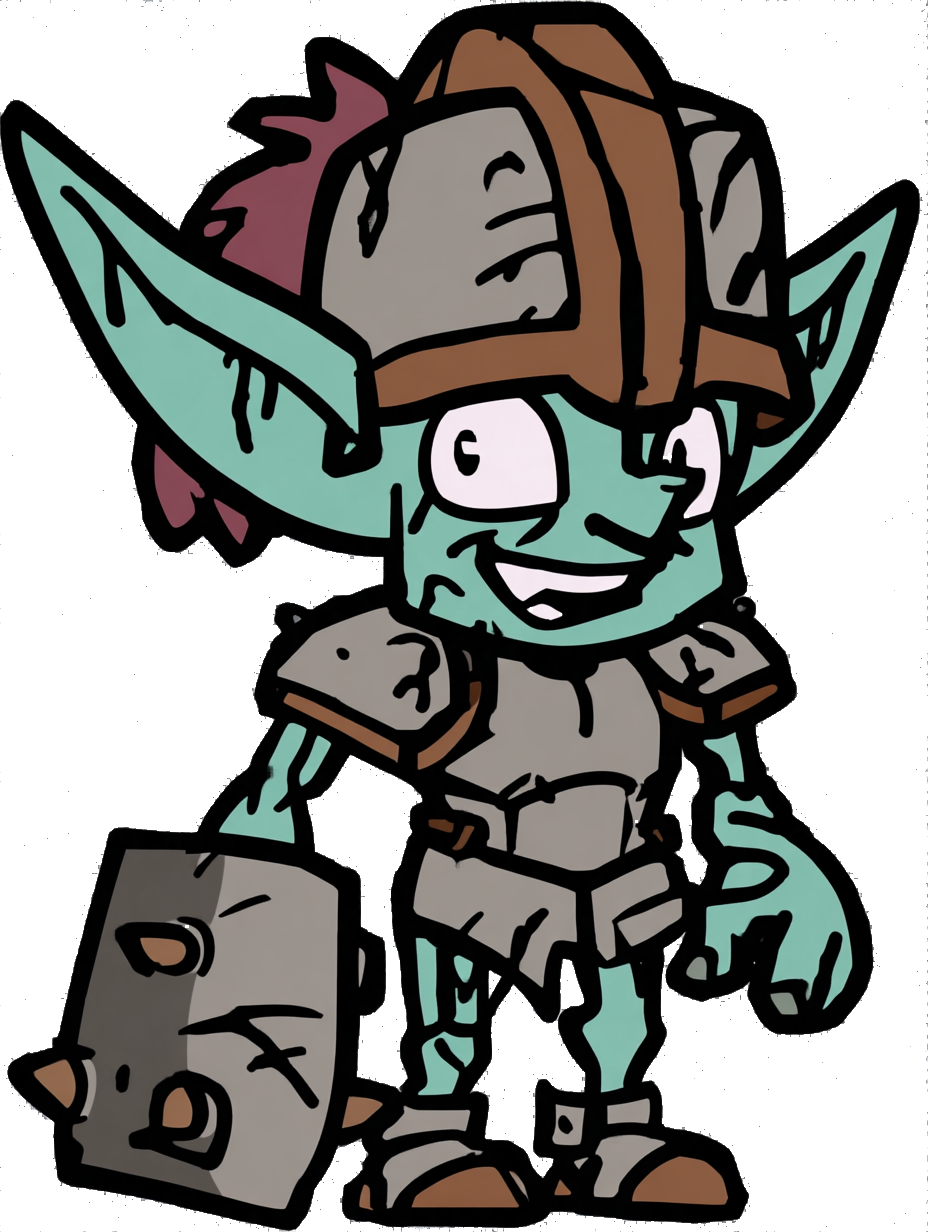
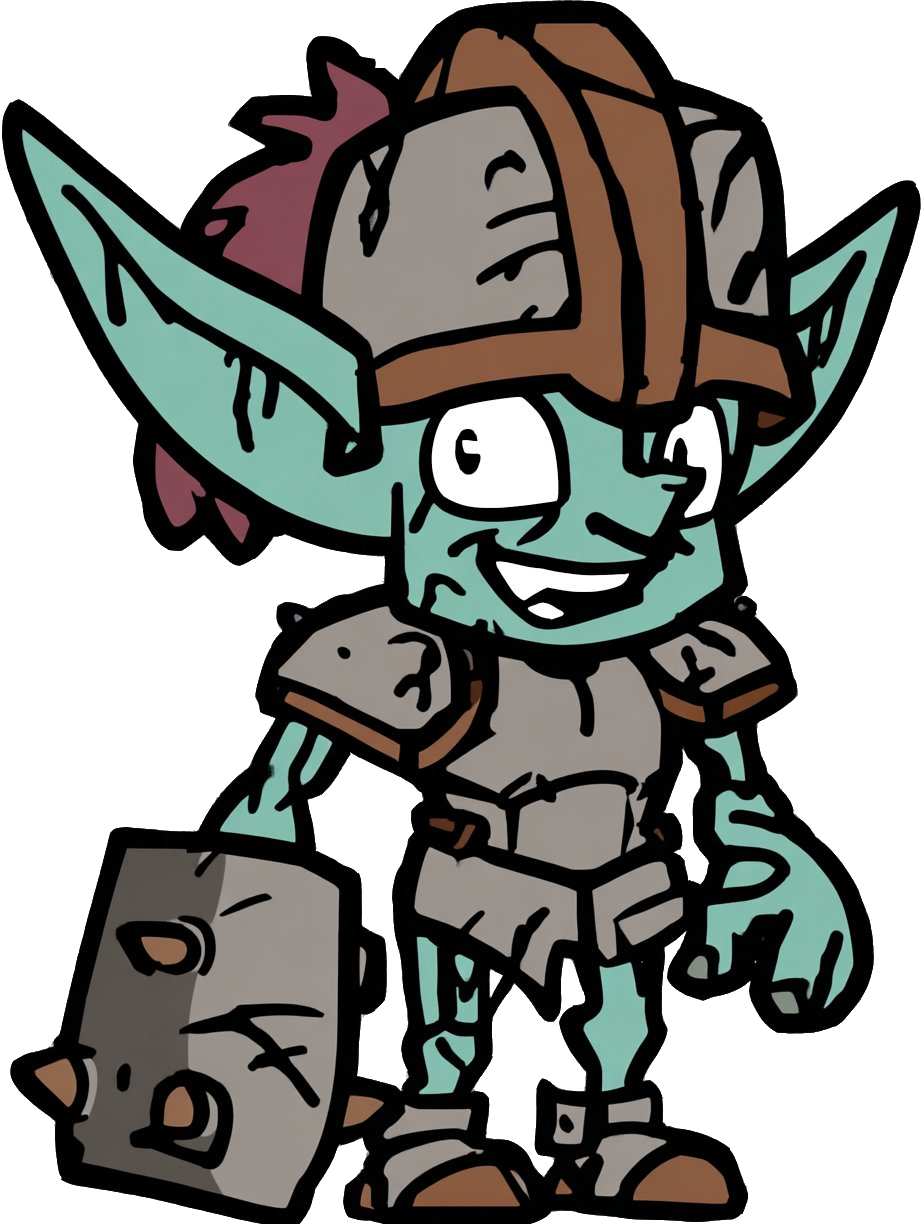
fix(characters): 哲人与军人立绘重抠，眼睛回来了、棋盘格清干净
两张立绘在原 zip 里被压平到渲染出来的透明棋盘上。第一版抠图把"轮廓内
高亮中性色的空洞"一律当背景去掉——眼白和牙齿正是这种空洞，于是两张图
的眼睛都被扣掉；哲人右耳旁还留着没去掉的深色棋盘块。

用户 2026-10-20 重新导出了这两张（923×1224，纯白底、眼睛完整）。新增
tools/characters/repair_white_matte_portraits.py 按新原则重抠：

- 只去掉与画面边框连通的近白像素，封闭在轮廓内的眼白、牙齿、书页保留；
- 四肢之间/两腿之间/盾牌下方这类封闭但属于背景的白块按坐标点名清除，
  每个种子先校验必须是纯白（INTERIOR_BACKGROUND_SEEDS）；
- 削掉贴着切口的一圈浅色描边，深色对话面板上不再出现白边；
- 输出仍为 RGBA、沿用 4px 边距约定。

原件逐字节存为 source/portrait_2026_10_20.jpg，portrait.png 为派生结果，
sources.json 追加来源/SHA-256/裁切记录，原 zip 棋盘原件保留。

同时收紧 import_talkable_npcs.py 的棋盘判定：封闭空洞需同时满足均值>230
与标准差>12 才当棋盘（棋盘约 203/σ25+，眼白 253/σ9），避免从原 zip 重跑
时再次吃掉眼睛。

复核：两张成品合成到深色底与洋红底逐一核对，眼白/牙齿完整、棋盘与封闭
白块清空、切口无白边；本机无 Godot，未跑引擎内视觉检查。

diff --git a/tools/characters/repair_white_matte_portraits.py b/tools/characters/repair_white_matte_portraits.py
@@ -1,0 +1,133 @@
+"""Re-cut the philosopher and soldier portraits from the 2026-10-20 re-exports.
+
+Usage: python tools/characters/repair_white_matte_portraits.py \
+           --portrait signature_philosopher=<png> --portrait barracks_soldier=<png>
+
+The archive entries for these two characters arrived flattened onto a rendered
+transparency checkerboard. The first pass cut them by brightness and saturation
+and then dropped every bright neutral hole in the silhouette, which is also what
+the eyes are: both portraits lost their eye whites, and the darker checker tone
+survived near the philosopher's ear.
+
+The 2026-10-20 re-exports put the same figures on plain white, so the background
+is simply the white region connected to the frame border: interior white (eyes,
+teeth, paper) is unreachable and stays. A light 1px rim next to the cut is
+dropped as well, otherwise the antialiased edge reads as a white halo on the
+dark dialogue panel. Same 4px margin and RGBA output as the other portraits.
+"""
+from __future__ import annotations
+
+import argparse
+import hashlib
+import json
+from pathlib import Path
+
+import numpy as np
+from PIL import Image, ImageDraw
+
+ROOT = Path(__file__).resolve().parents[2]
+ALPHA_FLOOR = 8
+TRIMMED_MARGIN = 4
+# Transparent pixels are painted with a colour no illustration uses, so the
+# filled region can be read back from the probe image.
+SENTINEL = (1, 2, 3)
+BACKGROUND_THRESHOLD = 48
+RIM_LUMINANCE = 195
+RIM_SATURATION = 30
+SUPPLIED_AT = "用户附件 2026-10-20（剪贴板）"
+## Plain-white gaps the border cannot reach (between the arms and the body, the
+## legs, under the shield). They are indistinguishable from eyes and teeth by
+## colour alone, so each one is named in the supplied image's own pixel space.
+## Re-check these coordinates whenever a new export changes the framing.
+INTERIOR_BACKGROUND_SEEDS: dict[str, tuple[tuple[int, int], ...]] = {
+    "signature_philosopher": ((443, 1107),),
+    "barracks_soldier": ((372, 886), (687, 818), (527, 1064), (336, 1186)),
+}
+
+
+def cut_white_background(image: Image.Image, interior_seeds: tuple[tuple[int, int], ...] = ()) -> Image.Image:
+    """Keep only what the border cannot reach through near-white pixels."""
+    rgba = image.convert("RGBA")
+    pixels = np.array(rgba)
+    rgb = pixels[:, :, :3].astype(np.int16)
+    luminance = rgb.mean(axis=2)
+    saturation = rgb.max(axis=2) - rgb.min(axis=2)
+    probe = rgba.convert("RGB")
+    for corner in [(0, 0), (probe.width - 1, 0), (0, probe.height - 1), (probe.width - 1, probe.height - 1)]:
+        if probe.getpixel(corner) != SENTINEL:
+            ImageDraw.floodfill(probe, corner, SENTINEL, thresh=BACKGROUND_THRESHOLD)
+    for seed in interior_seeds:
+        red, green, blue = probe.getpixel(seed)
+        if min(red, green, blue) < 235 or max(red, green, blue) - min(red, green, blue) > 12:
+            raise ValueError(f"Interior background seed {seed} is not plain white: {(red, green, blue)}")
+        if probe.getpixel(seed) != SENTINEL:
+            ImageDraw.floodfill(probe, seed, SENTINEL, thresh=BACKGROUND_THRESHOLD)
+    outside = np.all(np.array(probe) == np.array(SENTINEL, dtype=np.uint8), axis=2)
+    padded = np.pad(outside, 1, constant_values=False)
+    neighbour_count = np.zeros(outside.shape, dtype=np.uint8)
+    for dy in (-1, 0, 1):
+        for dx in (-1, 0, 1):
+            if dx == 0 and dy == 0:
+                continue
+            neighbour_count += padded[1 + dy:1 + dy + outside.shape[0], 1 + dx:1 + dx + outside.shape[1]]
+    rim = (~outside) & (neighbour_count >= 2) & (luminance > RIM_LUMINANCE) & (saturation <= RIM_SATURATION)
+    pixels[:, :, 3] = np.where(outside | rim, 0, 255).astype(np.uint8)
+    return Image.fromarray(pixels, "RGBA")
+
+
+def trimmed(image: Image.Image) -> tuple[Image.Image, list[int]]:
+    mask = image.getchannel("A").point(lambda value: 255 if value > ALPHA_FLOOR else 0)
+    box = mask.getbbox()
+    if box is None:
+        raise ValueError("Empty portrait after the cut")
+    crop = [max(0, box[0] - TRIMMED_MARGIN), max(0, box[1] - TRIMMED_MARGIN),
+            min(image.width, box[2] + TRIMMED_MARGIN), min(image.height, box[3] + TRIMMED_MARGIN)]
+    portrait = image.crop(tuple(crop))
+    portrait.putalpha(portrait.getchannel("A").point(lambda value: 0 if value <= ALPHA_FLOOR else value))
+    return portrait, crop
+
+
+def supplied_raw_name(path: Path) -> str:
+    return "portrait_2026_10_20" + path.suffix.lower()
+
+
+def main(pairs: list[tuple[str, Path]]) -> None:
+    for slug, path in pairs:
+        directory = ROOT / "assets/characters/npc" / slug
+        data = path.read_bytes()
+        raw = directory / "source" / supplied_raw_name(path)
+        raw.parent.mkdir(parents=True, exist_ok=True)
+        raw.write_bytes(data)
+        seeds = INTERIOR_BACKGROUND_SEEDS.get(slug, ())
+        portrait, crop = trimmed(cut_white_background(Image.open(path), seeds))
+        portrait.save(directory / "portrait.png")
+        sources_path = directory / "source/sources.json"
+        entries = json.loads(sources_path.read_text(encoding="utf-8")) if sources_path.exists() else []
+        relative = raw.relative_to(ROOT).as_posix()
+        entries = [entry for entry in entries if entry.get("path") != relative]
+        entries.append({
+            "archive": SUPPLIED_AT,
+            "entry": path.name,
+            "path": relative,
+            "sha256": hashlib.sha256(data).hexdigest(),
+            "portrait_crop": crop,
+            "derive": "white-background flood cut + 1px rim trim + 4px margin",
+            "replaces": "source/portrait.png（棋盘抠图，眼睛被当背景扣掉）",
+        })
+        sources_path.write_text(json.dumps(entries, ensure_ascii=False, indent=2) + "\n",
+                                encoding="utf-8", newline="\n")
+        print(slug, portrait.size, crop)
+
+
+if __name__ == "__main__":
+    parser = argparse.ArgumentParser(description=__doc__)
+    parser.add_argument("--portrait", action="append", required=True, metavar="SLUG=PATH",
+                        help="character slug and the supplied white-background PNG, repeatable")
+    argv = parser.parse_args()
+    parsed = []
+    for item in argv.portrait:
+        slug, _, raw_path = item.partition("=")
+        if not slug or not raw_path:
+            parser.error("--portrait expects SLUG=PATH")
+        parsed.append((slug, Path(raw_path)))
+    main(parsed)

diff --git a/tools/characters/import_talkable_npcs.py b/tools/characters/import_talkable_npcs.py
@@ -38,11 +38,15 @@ DEFINITIONS = [
 def cut_checkerboard(data: bytes) -> Image.Image:
     """Remove a rendered transparency checker flattened into an opaque portrait.
 
-    The checker is bright, neutral and noisy; the character's armour and helmet are
-    also grey but either darker or slightly saturated, so brightness plus saturation
+    The checker is neutral and noisy; the character's armour and helmet are also
+    grey but either darker or slightly saturated, so brightness plus saturation
     separates them. Enclosed leftovers (gaps between limbs) are dropped by looking at
-    the holes of the remaining silhouette and keeping only bright neutral ones, which
-    leaves teeth and eye highlights intact.
+    the holes of the remaining silhouette. Such a hole is only treated as checker
+    when it is *both* very bright and textured: the first pass also removed every
+    plain bright neutral hole, which is exactly what eye whites and teeth are, and
+    both portraits lost their eyes. Checker holes measure ~203 mean luminance with
+    a standard deviation above 25, whereas eye whites sit above 250 and are smooth,
+    so the two are separable without a hand-drawn mask.
     """
     image = Image.open(io.BytesIO(data)).convert("RGBA")
     pixels = np.array(image)
@@ -57,7 +61,7 @@ def cut_checkerboard(data: bytes) -> Image.Image:
         added = False
         for index in range(1, count + 1):
             area = labels == index
-            if luminance[area].mean() > 190 and saturation[area].mean() < 4:
+            if luminance[area].mean() > 230 and luminance[area].std() > 12 and saturation[area].mean() < 4:
                 background |= area
                 added = True
         if not added:

diff --git a/docs/assets/characters.md b/docs/assets/characters.md
@@ -230,7 +230,9 @@ F6 运行 `src/core/settlement.tscn`，走到集市（三个摊位在 (1272, 232
 | `barracks_soldier` | 哥布林军人 | 军人 | `supplement.soldier` |
 
 - 三张像素图原件本身就是 64×64 单帧，派生图沿用成人 NPC 规格（脚底 y=62、可见高度 58px）；艺术上人物宽窄不同（诗人 36px、哲人 41px、军人 55px），窄的那位在原图里就是瘦，没有额外缩放。
-- `诗人` 的立绘本来就是透明底；`哲人`、`军人` 两张被压平到一张渲染出来的透明棋盘上（RGB，无 alpha）。用噪声与中性高亮把棋盘抠掉，再按“轮廓内空洞若整体为高亮中性色就一并去掉”补掉四肢之间的漏网区域，牙齿与眼白的饱和度更高因此保留。抠图仍有极细的浅色描边，若用户后续提供透明原图可直接替换 `source/portrait.png` 后重跑脚本。
+- `诗人` 的立绘本来就是透明底；`哲人`、`军人` 两张被压平到一张渲染出来的透明棋盘上（RGB，无 alpha）。第一版用噪声与中性高亮抠棋盘，并把“轮廓内整体为高亮中性色的空洞”一并去掉——但眼白与牙齿同样是高亮中性色，于是两张立绘的眼睛被一起扣掉，哲人耳朵旁还留着没抠干净的棋盘格。
+- 2026-10-20 用户重新导出这两张（923×1224，纯白底、眼睛完整），改由 `tools/characters/repair_white_matte_portraits.py` 重抠：只去掉**与画面边框连通**的近白区域，封闭在轮廓内的眼白、牙齿、书页自然保留；四肢之间与两腿之间这类封闭但属于背景的白块按坐标点名清除（`INTERIOR_BACKGROUND_SEEDS`），每个种子先校验必须是纯白才动手；再削掉贴着切口的一圈浅色描边，避免在深色对话面板上出现白边。原件逐字节存为 `source/portrait_2026_10_20.jpg`，派生方式与裁切记录追加进各自 `source/sources.json`。
+- `import_talkable_npcs.py` 的棋盘抠图同时收紧：封闭空洞只有在“均值 > 230 且标准差 > 12”时才算棋盘（棋盘约 203/σ25+，眼白 253/σ9），避免从原始 zip 重跑时再次吃掉眼睛。
 - 原件逐字节保存在 `source/`，来源、SHA-256 与派生方式见各家 `source/sources.json`；帧资源由 `talkable_npc_catalog.json` 生成。
 
 ```sh

diff --git a/assets/characters/README.md b/assets/characters/README.md
@@ -70,4 +70,10 @@
 
 ### 诗人 / 哲人 / 军人（2026-10-20）
 
-同一附件的 `诗人`、`哲人`、`军人` 接入为 `npc/casino_poet`、`npc/signature_philosopher`、`npc/barracks_soldier`：单帧像素图 + 立绘。哲人与军人的立绘在原包里被压平在渲染出来的透明棋盘上（无 alpha），派生时用噪声/中性高亮抠掉。三位接管 `DialogueManager.speaker_portraits` 的诗人 / 哥布林哲人 / 军人。详见[人物接入](../../docs/assets/characters.md#具名可对话-npc诗人--哲人--军人2026-10-20)。
+同一附件的 `诗人`、`哲人`、`军人` 接入为 `npc/casino_poet`、`npc/signature_philosopher`、`npc/barracks_soldier`：单帧像素图 + 立绘。哲人与军人的立绘在原包里被压平在渲染出来的透明棋盘上（无 alpha），派生时用噪声/中性高亮抠掉；这一版把眼白也当成背景扣掉了，耳朵旁还留着棋盘格。三位接管 `DialogueManager.speaker_portraits` 的诗人 / 哥布林哲人 / 军人。详见[人物接入](../../docs/assets/characters.md#具名可对话-npc诗人--哲人--军人2026-10-20)。
+
+### 哲人与军人立绘重抠（2026-10-20）
+
+用户重新导出两图（923×1224，纯白底、眼睛完整）。原件逐字节存为各自 `source/portrait_2026_10_20.jpg`，`portrait.png` 由
+`python tools/characters/repair_white_matte_portraits.py --portrait signature_philosopher=<哲人.png> --portrait barracks_soldier=<军人.png>`
+重抠：只去掉与边框连通的近白区域（封闭的眼白、牙齿、书页保留），四肢/两腿之间的封闭白块按坐标点名清除，最后削掉切口处的浅色描边。复现命令、种子坐标与裁切记录见脚本与各自 `source/sources.json`；原 zip 的棋盘原件继续保留在 `source/portrait.png`。
